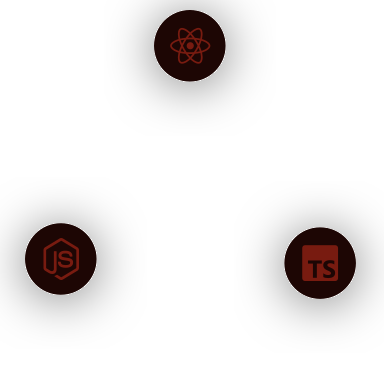
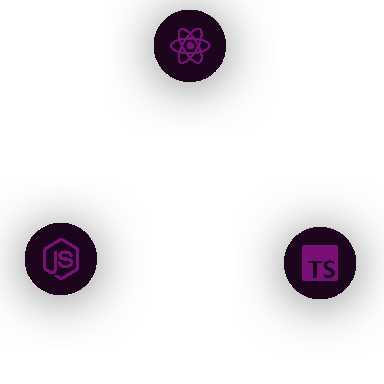
Fix: changed red colors to purple colors

Changed region(s): [[0.375, 0.0, 0.5938, 0.2188], [0.7188, 0.5938, 0.9375, 0.7812], [0.0625, 0.5625, 0.25, 0.7812]]

diff --git a/src/sections/Recomendations/index.tsx b/src/sections/Recomendations/index.tsx
@@ -9,8 +9,12 @@ export default function Recomendations() {
     <div className="mt-16" id="Recomendations">
       <Card text="💬 Recomendações" />
       <h1 className="mt-4 font-extrabold text-white text-2xl md:hidden">Em </h1>
-      <h1 className="font-extrabold text-white text-2xl md:hidden">depoimento</h1>
-      <h1 className="font-extrabold text-white text-2xl hidden md:flex md:text-5xl md:mt-6">Em depoimento</h1>
+      <h1 className="font-extrabold text-white text-2xl md:hidden">
+        depoimento
+      </h1>
+      <h1 className="font-extrabold text-white text-2xl hidden md:flex md:text-5xl md:mt-6">
+        Em depoimento
+      </h1>
 
       <Swiper
         slidesPerView={1}
@@ -26,12 +30,16 @@ export default function Recomendations() {
         {RecomendationsMock.map((item) => (
           <SwiperSlide>
             <div className="border-2 rounded-lg border-border p-4 flex flex-col">
-              <MdFormatQuote size={30} color="#D3301C" />
+              <MdFormatQuote size={30} color="#7B4AE2" />
               <span className="text-white opacity-50 text-sm">
                 {item.description}
               </span>
               <div className="flex flex-row font-bold mt-6 gap-2">
-                <img src={item.image} alt="" className="w-12 h-12 rounded-[6.25rem]" />
+                <img
+                  src={item.image}
+                  alt=""
+                  className="w-12 h-12 rounded-[6.25rem]"
+                />
                 <div className="flex flex-col">
                   <h1 className="text-white">{item.name}</h1>
                   <span className="text-text opacity-50">{item.role}</span>
@@ -44,12 +52,16 @@ export default function Recomendations() {
       <div className="hidden md:flex md: flex-row md:gap-10">
         {RecomendationsMock.map((item) => (
           <div className="border-2 rounded-lg border-border p-4 flex flex-col md:w-[30rem] md:mt-16">
-            <MdFormatQuote size={30} color="#D3301C" />
+            <MdFormatQuote size={30} color="#7B4AE2" />
             <span className="text-white opacity-50 text-sm">
               {item.description}
             </span>
             <div className="flex flex-row font-bold mt-6 gap-2">
-              <img src={item.image} alt="" className="w-12 h-12 rounded-[6.25rem]" />
+              <img
+                src={item.image}
+                alt=""
+                className="w-12 h-12 rounded-[6.25rem]"
+              />
               <div className="flex flex-col">
                 <h1 className="text-white">{item.name}</h1>
                 <span className="text-text opacity-50">{item.role}</span>
@@ -58,7 +70,6 @@ export default function Recomendations() {
           </div>
         ))}
       </div>
-
     </div>
   );
 }

diff --git a/src/sections/Contact/index.tsx b/src/sections/Contact/index.tsx
@@ -14,31 +14,50 @@ export default function Contact() {
   }
 
   return (
-    <div className="mt-16 md:flex md:items-center md:justify-center md:flex-col" id="Contacts">
+    <div
+      className="mt-16 md:flex md:items-center md:justify-center md:flex-col"
+      id="Contacts"
+    >
       <CardWork text="📬 Contatos" />
-      <h1 className="mt-4 font-extrabold text-white text-2xl md:hidden">Entre </h1>
-      <h1 className="font-extrabold text-white text-2xl md:hidden">em contato</h1>
-      <h1 className="font-extrabold text-white text-2xl md:text-5xl hidden md:flex md:mt-16">Vamos conversar!</h1>
+      <h1 className="mt-4 font-extrabold text-white text-2xl md:hidden">
+        Entre
+        {' '}
+      </h1>
+      <h1 className="font-extrabold text-white text-2xl md:hidden">
+        em contato
+      </h1>
+      <h1 className="font-extrabold text-white text-2xl md:text-5xl hidden md:flex md:mt-16">
+        Vamos conversar!
+      </h1>
 
       <div className="md:flex md:flex-row md:items-center md:gap-10 md:mt-16">
         <div className="w-[11.6rem] mt-6 opacity-50">
           <LinkInstagram />
         </div>
         <div className="md:flex md:items-center md:flex-col">
-          <h1 className="text-text mt-4 mb-1 font-medium md:text-xl">E-mail:</h1>
+          <h1 className="text-text mt-4 mb-1 font-medium md:text-xl">
+            E-mail:
+          </h1>
           <div className="flex flex-row items-center gap-2 md:flex-col">
-            <span className="text-white opacity-50 md:text-xl">diegoarrudacontato@gmail.com</span>
+            <span className="text-white opacity-50 md:text-xl">
+              diegoarrudacontato@gmail.com
+            </span>
             <div className="hover:cursor-pointer " onClick={handleCopy}>
               <CopyToClipboard text="diegoarrudacontato@gmail.com">
-                <IoCopy size={20} color="#D3301C" />
+                <IoCopy size={20} color="#7B4AE2" />
               </CopyToClipboard>
             </div>
             {copy && <span className="text-text">E-mail Copiado!</span>}
           </div>
         </div>
-
       </div>
-      <Link to="Header" smooth offset={-128} spy className="flex flex-row items-center text-text font-semibold my-16 hover:cursor-pointer opacity-50">
+      <Link
+        to="Header"
+        smooth
+        offset={-128}
+        spy
+        className="flex flex-row items-center text-text font-semibold my-16 hover:cursor-pointer opacity-50"
+      >
         <h1>Voltar ao topo</h1>
         <TbArrowTopBar size={20} className="flex" />
       </Link>

diff --git a/src/sections/Experience/index.tsx b/src/sections/Experience/index.tsx
@@ -8,7 +8,7 @@ export default function Experience() {
           key={item.text1}
           className="flex flex-col mt-16 border-2 border-border rounded-lg px-5 pb-8 pt-14 text-white items-center justify-center md:w-1/4 md:h-[20rem] md:hover:bg-footer md:hover:border-0 transition-all duration-200 ease-in"
         >
-          <item.icon size={100} color="#D3301C" />
+          <item.icon size={100} color="#7B4AE2" />
           <span className="font-medium mt-2">{item.text1}</span>
           <h1 className="font-bold text-2xl md:text-3xl">{item.text2}</h1>
         </div>

diff --git a/src/styles/main.css b/src/styles/main.css
@@ -2,21 +2,22 @@
 @tailwind components;
 @tailwind utilities;
 
-body{
+body {
   font-family: 'Raleway';
-  overflow-x:hidden
+  overflow-x: hidden;
 }
+
 body::-webkit-scrollbar {
   width: 10px;
 }
 
 body::-webkit-scrollbar-track {
-  background: rgba(4, 10, 23, 0.1);
+  background: rgba(23, 4, 23, 0.1);
   border-radius: 5px;
 }
 
 body::-webkit-scrollbar-thumb {
-  background-color: rgba(211, 48, 28, 0.4);
+  background-color: rgba(120, 16, 120, 0.4);
   border-radius: 14px;
-  border: 3px solid rgba(4, 10, 23, 0.2);
+  border: 3px solid rgba(23, 4, 23, 0.2);
 }

diff --git a/index.html b/index.html
@@ -10,7 +10,7 @@
     <meta name="viewport" content="width=device-width, initial-scale=1.0" />
     <title>Diego Arruda</title>
   </head>
-  <body class="bg-[#2E1717]">
+  <body class="bg-[#090E16]">
     <div id="root"></div>
     <script type="module" src="/src/main.tsx"></script>
     <script>
